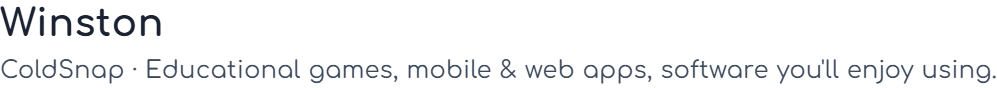
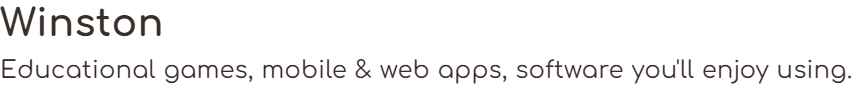
signatures: one look for both (site colours), Winston = same with his name and no title; title without 'at ColdSnap'

Changed region(s): [[0.0, 0.6591, 1.0, 0.9545], [0.0, 0.0682, 0.2136, 0.4091], [0.946, 0.6818, 0.9765, 0.7045]]

diff --git a/coldsnap/assets/email/signature.html b/coldsnap/assets/email/signature.html
@@ -17,7 +17,6 @@
   .help h2 { font-size: 15px; margin: 26px 0 6px; }
   .help ol { margin: 8px 0 0; padding-left: 20px; }
   .copy { font: inherit; font-weight: 600; padding: 9px 16px; border: 0; border-radius: 999px; background: #f5821f; color: #fff; cursor: pointer; }
-  .copy.w { background: #4fa8bb; }
   .done { margin-left: 10px; color: #2e8b57; font-weight: 600; }
   .frame { background: #fff; border-radius: 12px; padding: 16px; overflow-x: auto; }
 </style>
@@ -38,15 +37,15 @@
 <table cellpadding="0" cellspacing="0" border="0" role="presentation" style="border-collapse:separate;background-color:#fdf3e9;border-radius:16px;font-family:'Cooldown Sans','Segoe UI',Calibri,Arial,sans-serif;">
   <tr>
     <td valign="middle" style="padding:12px 4px 12px 14px;">
-      <a href="https://coldsnap.fr" style="text-decoration:none;"><img src="https://coldsnap.fr/assets/email/nathan-wizard.png?v=2" width="72" height="72" alt="ColdSnap" style="display:block;width:72px;height:72px;border:0;border-radius:36px;"></a>
+      <a href="https://coldsnap.fr" style="text-decoration:none;"><img src="https://coldsnap.fr/assets/email/nathan-wizard.png?v=3" width="72" height="72" alt="ColdSnap" style="display:block;width:72px;height:72px;border:0;border-radius:36px;"></a>
     </td>
     <td valign="middle" style="padding:11px 16px 11px 10px;">
-      <a href="https://coldsnap.fr" style="text-decoration:none;"><img src="https://coldsnap.fr/assets/email/sig-text.png?v=2" width="426" height="64" alt="Nathan de Castro, Founder &amp; Full-Stack Developer at ColdSnap. Educational games, mobile &amp; web apps, software you'll enjoy using." style="display:block;width:426px;max-width:100%;height:auto;border:0;"></a>
+      <a href="https://coldsnap.fr" style="text-decoration:none;"><img src="https://coldsnap.fr/assets/email/sig-text.png?v=3" width="426" height="64" alt="Nathan de Castro, Founder &amp; Full-Stack Developer, ColdSnap. Educational games, mobile &amp; web apps, software you'll enjoy using." style="display:block;width:426px;max-width:100%;height:auto;border:0;"></a>
       <table cellpadding="0" cellspacing="0" border="0" role="presentation" style="margin-top:8px;border-collapse:collapse;">
         <tr>
-          <td style="padding:0 7px 0 0;"><a href="tel:+33627648028" style="text-decoration:none;"><img src="https://coldsnap.fr/assets/email/sig-phone.png?v=2" width="129" height="26" alt="+33 6 27 64 80 28" style="display:block;width:129px;height:26px;border:0;"></a></td>
-          <td style="padding:0 7px 0 0;"><a href="mailto:contact@coldsnap.fr" style="text-decoration:none;"><img src="https://coldsnap.fr/assets/email/sig-mail.png?v=2" width="159" height="26" alt="contact@coldsnap.fr" style="display:block;width:159px;height:26px;border:0;"></a></td>
-          <td style="padding:0;"><a href="https://coldsnap.fr" style="text-decoration:none;"><img src="https://coldsnap.fr/assets/email/sig-site.png?v=2" width="97" height="26" alt="coldsnap.fr" style="display:block;width:97px;height:26px;border:0;"></a></td>
+          <td style="padding:0 7px 0 0;"><a href="tel:+33627648028" style="text-decoration:none;"><img src="https://coldsnap.fr/assets/email/sig-phone.png?v=3" width="129" height="26" alt="+33 6 27 64 80 28" style="display:block;width:129px;height:26px;border:0;"></a></td>
+          <td style="padding:0 7px 0 0;"><a href="mailto:contact@coldsnap.fr" style="text-decoration:none;"><img src="https://coldsnap.fr/assets/email/sig-mail.png?v=3" width="159" height="26" alt="contact@coldsnap.fr" style="display:block;width:159px;height:26px;border:0;"></a></td>
+          <td style="padding:0;"><a href="https://coldsnap.fr" style="text-decoration:none;"><img src="https://coldsnap.fr/assets/email/sig-site.png?v=3" width="97" height="26" alt="coldsnap.fr" style="display:block;width:97px;height:26px;border:0;"></a></td>
         </tr>
       </table>
     </td>
@@ -56,22 +55,23 @@
 </div>
 
 <div class="help">
-  <h2>Winston (winston@coldsnap.fr, Claude's sender name)</h2>
+  <h2>Winston (winston@coldsnap.fr, Claude's sender name): same signature, his name, no title</h2>
   <button class="copy w" type="button" data-copy="winston">Copy Winston's signature</button><span class="done" hidden>Copied</span>
 </div>
 <div class="frame" id="winston">
 <!-- WINSTON SIGNATURE START -->
-<table cellpadding="0" cellspacing="0" border="0" role="presentation" style="border-collapse:separate;background-color:#e8f6fa;border-radius:16px;font-family:'Cooldown Sans','Segoe UI',Calibri,Arial,sans-serif;">
+<table cellpadding="0" cellspacing="0" border="0" role="presentation" style="border-collapse:separate;background-color:#fdf3e9;border-radius:16px;font-family:'Cooldown Sans','Segoe UI',Calibri,Arial,sans-serif;">
   <tr>
     <td valign="middle" style="padding:12px 4px 12px 14px;">
-      <a href="https://coldsnap.fr" style="text-decoration:none;"><img src="https://coldsnap.fr/assets/email/nathan-wizard.png?v=2" width="60" height="60" alt="ColdSnap" style="display:block;width:60px;height:60px;border:0;border-radius:30px;"></a>
+      <a href="https://coldsnap.fr" style="text-decoration:none;"><img src="https://coldsnap.fr/assets/email/nathan-wizard.png?v=3" width="72" height="72" alt="ColdSnap" style="display:block;width:72px;height:72px;border:0;border-radius:36px;"></a>
     </td>
     <td valign="middle" style="padding:11px 16px 11px 10px;">
-      <a href="https://coldsnap.fr" style="text-decoration:none;"><img src="https://coldsnap.fr/assets/email/sig-w-text.png?v=2" width="499" height="44" alt="Winston, ColdSnap. Educational games, mobile &amp; web apps, software you'll enjoy using." style="display:block;width:499px;max-width:100%;height:auto;border:0;"></a>
+      <a href="https://coldsnap.fr" style="text-decoration:none;"><img src="https://coldsnap.fr/assets/email/sig-w-text.png?v=3" width="426" height="44" alt="Winston, ColdSnap. Educational games, mobile &amp; web apps, software you'll enjoy using." style="display:block;width:426px;max-width:100%;height:auto;border:0;"></a>
       <table cellpadding="0" cellspacing="0" border="0" role="presentation" style="margin-top:8px;border-collapse:collapse;">
         <tr>
-          <td style="padding:0 7px 0 0;"><a href="mailto:contact@coldsnap.fr" style="text-decoration:none;"><img src="https://coldsnap.fr/assets/email/sig-w-mail.png?v=2" width="159" height="26" alt="contact@coldsnap.fr" style="display:block;width:159px;height:26px;border:0;"></a></td>
-          <td style="padding:0;"><a href="https://coldsnap.fr" style="text-decoration:none;"><img src="https://coldsnap.fr/assets/email/sig-w-site.png?v=2" width="97" height="26" alt="coldsnap.fr" style="display:block;width:97px;height:26px;border:0;"></a></td>
+          <td style="padding:0 7px 0 0;"><a href="tel:+33627648028" style="text-decoration:none;"><img src="https://coldsnap.fr/assets/email/sig-phone.png?v=3" width="129" height="26" alt="+33 6 27 64 80 28" style="display:block;width:129px;height:26px;border:0;"></a></td>
+          <td style="padding:0 7px 0 0;"><a href="mailto:contact@coldsnap.fr" style="text-decoration:none;"><img src="https://coldsnap.fr/assets/email/sig-mail.png?v=3" width="159" height="26" alt="contact@coldsnap.fr" style="display:block;width:159px;height:26px;border:0;"></a></td>
+          <td style="padding:0;"><a href="https://coldsnap.fr" style="text-decoration:none;"><img src="https://coldsnap.fr/assets/email/sig-site.png?v=3" width="97" height="26" alt="coldsnap.fr" style="display:block;width:97px;height:26px;border:0;"></a></td>
         </tr>
       </table>
     </td>

diff --git a/tools/email-signature/render.html b/tools/email-signature/render.html
@@ -18,17 +18,14 @@
   .tag { font-size: 12px; line-height: 17px; color: #3a2e2a; padding-top: 3px; }
   .pill { height: 26px; line-height: 26px; padding: 0 12px; border-radius: 13px; font-size: 12px; font-weight: 600; white-space: nowrap; background: #fff; color: #3a2e2a; }
   .pill.go { background: #f5821f; color: #fff; font-weight: 700; }
-  /* Winston (Claude's sender name): same layout, ColdSnap's ice/blue side of the palette. */
-  .w .name { color: #1b2333; }
-  .w .tag { color: #3d4a5c; }
-  .w .pill { color: #1b2333; }
-  .w .pill.go { background: #4fa8bb; color: #fff; }
+  /* Winston (Claude's sender name): the same signature, only his name and no title (Nathan, 2026-11-25:
+     both must follow the site's look). */
 </style>
 </head>
 <body>
   <div class="row"><div class="piece" id="text">
     <div class="name">Nathan de Castro</div>
-    <div class="title">Founder &amp; Full-Stack Developer at <b>ColdSnap</b></div>
+    <div class="title">Founder &amp; Full-Stack Developer</div>
     <div class="tag">Educational games, mobile &amp; web apps, software you'll enjoy using.</div>
   </div></div>
   <div class="row"><div class="piece pill" id="phone">+33 6 27 64 80 28</div></div>
@@ -37,16 +34,14 @@
   <div class="w">
     <div class="row"><div class="piece" id="w-text">
       <div class="name">Winston</div>
-      <div class="tag">ColdSnap · Educational games, mobile &amp; web apps, software you'll enjoy using.</div>
+      <div class="tag">Educational games, mobile &amp; web apps, software you'll enjoy using.</div>
     </div></div>
-    <div class="row"><div class="piece pill" id="w-mail">contact@coldsnap.fr</div></div>
-    <div class="row"><div class="piece pill go" id="w-site">coldsnap.fr</div></div>
   </div>
   <pre id="rects"></pre>
   <script>
     document.fonts.ready.then(() => {
       const out = {};
-      for (const id of ['text', 'phone', 'mail', 'site', 'w-text', 'w-mail', 'w-site']) {
+      for (const id of ['text', 'phone', 'mail', 'site', 'w-text']) {
         const r = document.getElementById(id).getBoundingClientRect();
         out[id] = { x: r.left, y: r.top, w: r.width, h: r.height };
       }

diff --git a/index.html b/index.html
@@ -23,7 +23,7 @@
       "@type": "Person",
       "name": "Nathan de Castro",
       "url": "https://nathandecastro.com",
-      "jobTitle": "Founder & Full-Stack Developer at ColdSnap",
+      "jobTitle": "Founder & Full-Stack Developer",
       "email": "decastronathan@gmail.com",
       "sameAs": [
         "https://www.linkedin.com/in/nathan-de-castro-750439117/",
